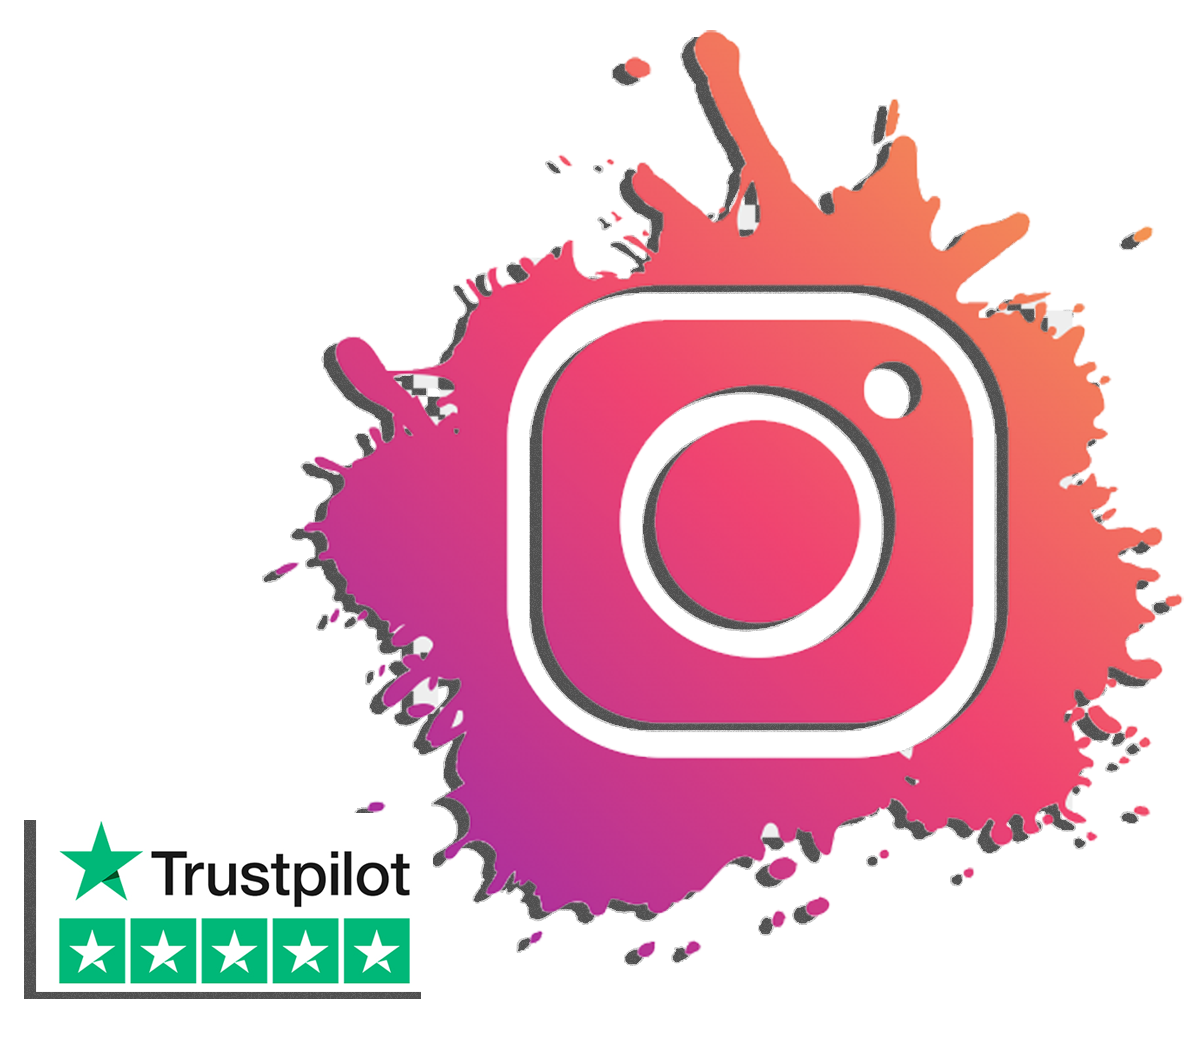
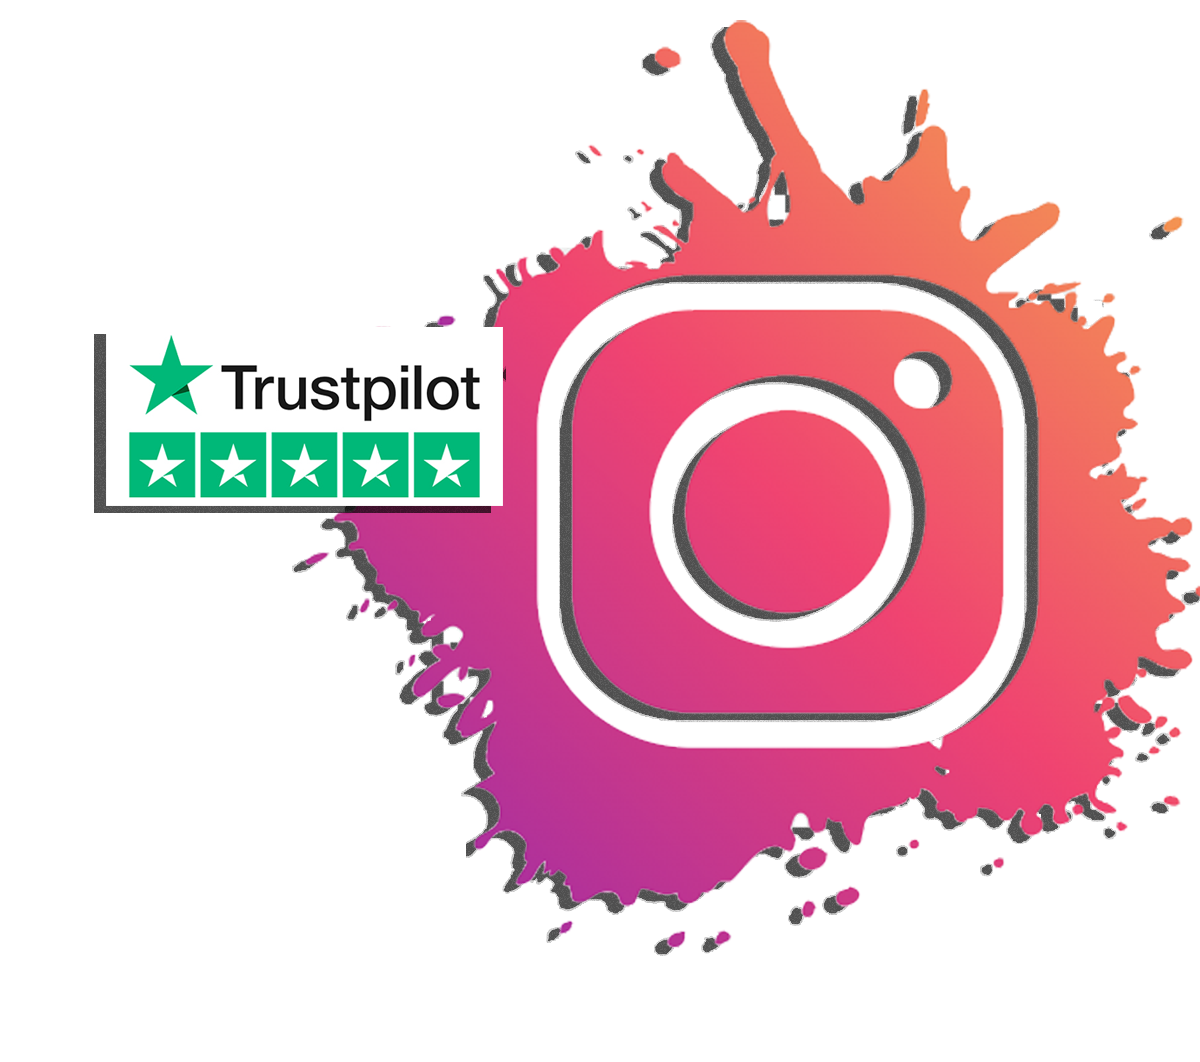
ui changes

diff --git a/SG2.CORE.WEB/Content/app-assets/js/scripts/forms/tags/tagging.js b/SG2.CORE.WEB/Content/app-assets/js/scripts/forms/tags/tagging.js
@@ -136,9 +136,9 @@ $(document).ready(function(){
         $('.special-keys-box').tagging( "addSpecialKeys", [ "remove", { left_arrow: 37 } ] );
     });
 
-    $('.focus-input').on('click',function(){
-        $('.focus-input-box').tagging( "focusInput" );
-    });
+    //$('.focus-input').on('click',function(){
+    //    $('.focus-input-box').tagging( "focusInput" );
+    //});
 
     $('.get-special-keys').on('click',function(){
         console.log($('.get-special-keys-box').tagging( "getSpecialKeys" ));

diff --git a/SG2.CORE.WEB/Content/Theme-CA/style.css b/SG2.CORE.WEB/Content/Theme-CA/style.css
@@ -201,7 +201,7 @@ ol {
 #scrollUp {
     bottom: 0;
     font-size: 24px;
-    right: 30px;
+    left: 30px;
     width: 50px;
     background-color: #fb397d;
     color: #fff;
@@ -451,7 +451,7 @@ p {
 .welcome-thumb {
     width: 45%;
     position: absolute;
-    bottom: 38px;
+    bottom: -27px;
     right: 186px;
     z-index: 9;
 }
@@ -462,7 +462,7 @@ p {
 }
 
 .wellcome-heading > h2 {
-    font-size: 95px;
+    font-size: 80px;
     color: #ffffff;
     font-weight: 700;
     position: relative;

diff --git a/SG2.CORE.WEB/Content/Theme-CA/css/responsive.css b/SG2.CORE.WEB/Content/Theme-CA/css/responsive.css
@@ -141,7 +141,7 @@
         font-size: 14px;
     }
     .wellcome-heading > h2 {
-        font-size: 48px;
+        font-size: 38px;
     }
     .get-start-area .email {
         margin-bottom: 20px;
@@ -149,7 +149,7 @@
     }
     .welcome-thumb {
         width: 90%;
-        bottom: 0px;
+        bottom: 139px;
         right: 35px;;
     }
     .logo_area > a > h2 {

diff --git a/SG2.CORE.WEB/Content/app-assets/css/stripe.css b/SG2.CORE.WEB/Content/app-assets/css/stripe.css
@@ -529,7 +529,7 @@ main {
     justify-content: center;
     position: absolute;
     width: 100%;
-    height: 100%;
+    height: 70%;
     top: 0;
     left: 0;
     padding: 10px;

diff --git a/SG2.CORE.WEB/Controllers/ProfileController.cs b/SG2.CORE.WEB/Controllers/ProfileController.cs
@@ -58,7 +58,7 @@ namespace SG2.CORE.WEB.Controllers
             _statisticsManager = new StatisticsManager();
             _commonManager = new CommonManager();
             _customerManager = new CustomerManager();
-            SystemConfigs = SystemConfig.GetConfigs;
+            SystemConfigs = SystemConfig.GetConfigsLatest();
             //_queueLoggerManager = new QueueLoggerManager();
             _notManager = new NotificationManager();
             //_proxyManager = new ProxyManager();
@@ -84,6 +84,9 @@ namespace SG2.CORE.WEB.Controllers
 
             ProfilesSearchRequest model = new ProfilesSearchRequest { Block = 99, Plan = 0, searchString = "", SocialType = 0 };
             ViewBag.ProfileCount = this._customerManager.GetSocialProfilesByCustomerid(this.CDT.CustomerId, model).Count();
+
+            ViewBag.winapp = SystemConfigs.First(x => x.ConfigKey.ToLower() == ("winapp").ToLower()).ConfigValue;
+            ViewBag.macapp = SystemConfigs.First(x => x.ConfigKey.ToLower() == ("macapp").ToLower()).ConfigValue;
 
             if (success.HasValue && success.Value == 1)
             {
